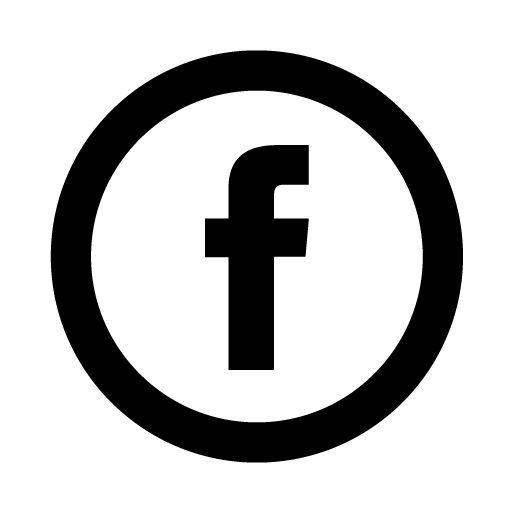
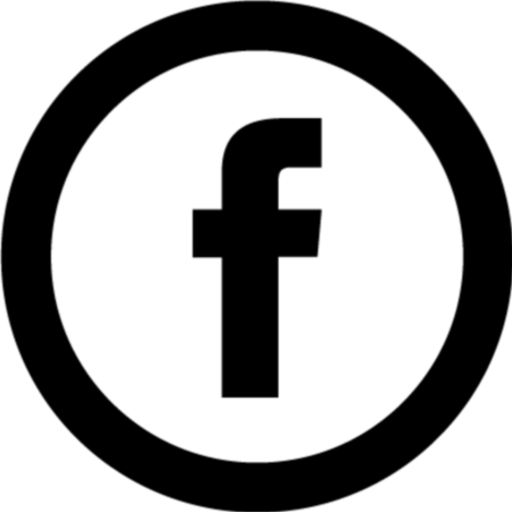
-- adjustments to css and addition of education section

diff --git a/index.html b/index.html
@@ -96,10 +96,73 @@
     <div class="divider"></div>
 
     <div id="EDU" class="container my-5">
+      <h1 class="border-bottom display-1"> EDUCATION </h1>
       <div class="row p-4 pb-0 pe-lg-0 pt-lg-5 align-items-center rounded-3 border shadow-lg">
         <div class="col-lg-7 p-3 p-lg-5 pt-lg-3">
-          <h1 class="display-4 fw-bold lh-1">Border hero with cropped image and shadows</h1>
-          <p class="lead">Quickly design and customize responsive mobile-first sites with Bootstrap, the world’s most popular front-end open source toolkit, featuring Sass variables and mixins, responsive grid system, extensive prebuilt components, and powerful JavaScript plugins.</p>
+          <div class="accordion" id="accordionPanelsStayOpenExample">
+            <div class="accordion-item">
+              <h2 class="accordion-header" id="panelsStayOpen-headingOne">
+                <button class="accordion-button" type="button" data-bs-toggle="collapse" data-bs-target="#panelsStayOpen-collapseOne" aria-expanded="true" aria-controls="panelsStayOpen-collapseOne">
+                  Bachelors of Science
+                </button>
+              </h2>
+              <div id="panelsStayOpen-collapseOne" class="accordion-collapse collapse show" aria-labelledby="panelsStayOpen-headingOne">
+                <div class="accordion-body">
+                  <strong>Graduating from University of Toronto in 2021 with a Bachelors of Science.</strong>
+                  <table class="table table-hover">
+                    <thead>
+                      <tr>
+                        <th scope="col"> Specialization  </th>
+                        <th scope="col"> Specific Courses </th>
+                        <th scope="col"> More Detailed Description </th>
+                      </tr>
+                    </thead>
+                    <tbody>
+                      <tr>
+                        <th scope="row"> Computer Science </th>
+                        <td> - Object Oriented Programming</td>
+                        <td> - Specific education with Java with regards to OOP principles and dynamics.</td>
+                      </tr>
+                      <tr>
+                        <th scope="row"> Mathematics </th>
+                        <td> - Linear Algebra <br> - Proofs <br> - Multivariable Calculus </td>
+                        <td> - Understanding matrices and graphing </td>
+                      </tr>
+                      <tr>
+                        <th scope="row"> Psychology </th>
+                        <td> - Psychology and the Law <br> - Psychological Disorders <br> The Biopsychology of Sex </td>
+                        <td> - Understanding the impact of Law on Psychology and research </td>
+                      </tr>
+                    </tbody>
+                  </table>
+                </div>
+              </div>
+            </div>
+            <div class="accordion-item">
+              <h2 class="accordion-header" id="panelsStayOpen-headingTwo">
+                <button class="accordion-button collapsed" type="button" data-bs-toggle="collapse" data-bs-target="#panelsStayOpen-collapseTwo" aria-expanded="false" aria-controls="panelsStayOpen-collapseTwo">
+                  Water Treatment Licensing
+                </button>
+              </h2>
+              <div id="panelsStayOpen-collapseTwo" class="accordion-collapse collapse" aria-labelledby="panelsStayOpen-headingTwo">
+                <div class="accordion-body">
+                  <strong>This is the second item's accordion body.</strong> It is hidden by default, until the collapse plugin adds the appropriate classes that we use to style each element. These classes control the overall appearance, as well as the showing and hiding via CSS transitions. You can modify any of this with custom CSS or overriding our default variables. It's also worth noting that just about any HTML can go within the <code>.accordion-body</code>, though the transition does limit overflow.
+                </div>
+              </div>
+            </div>
+            <div class="accordion-item">
+              <h2 class="accordion-header" id="panelsStayOpen-headingThree">
+                <button class="accordion-button collapsed" type="button" data-bs-toggle="collapse" data-bs-target="#panelsStayOpen-collapseThree" aria-expanded="false" aria-controls="panelsStayOpen-collapseThree">
+                  Additional Certifications and Training
+                </button>
+              </h2>
+              <div id="panelsStayOpen-collapseThree" class="accordion-collapse collapse" aria-labelledby="panelsStayOpen-headingThree">
+                <div class="accordion-body">
+                  <strong>This is the third item's accordion body.</strong> It is hidden by default, until the collapse plugin adds the appropriate classes that we use to style each element. These classes control the overall appearance, as well as the showing and hiding via CSS transitions. You can modify any of this with custom CSS or overriding our default variables. It's also worth noting that just about any HTML can go within the <code>.accordion-body</code>, though the transition does limit overflow.
+                </div>
+              </div>
+            </div>
+          </div>
         </div>
         <div class="col-lg-4 offset-lg-1 p-0 overflow-hidden shadow-lg">
             <img class="rounded-lg-3" src="bootstrap-docs.png" alt="" width="720">
@@ -145,21 +208,21 @@
     </div>
 
     <div class="container">
-      <footer class="py-4 my-4 border-top">
-        <ul class="list-group list-group-horizontal list-group-flush">
-          <li class="list-group-item"><a class="socials_links" href="https://github.com/greatcoltini">
-            <img class="rounded mx-auto d-block" src="githubicohov.png" alt="GitHub" width=50 height=50>
-          </a></li>
-          <li class="list-group-item"><a class="socials_links" href="https://instagram.com/greatcoltini">
-            <img class="rounded mx-auto d-block" src="greyinstaico.png" alt="Instagram" width=50 height=50>
-          </a></li>
-          <li class="list-group-item"><a class="socials_links" href="https://www.linkedin.com/in/colton-donkersgoed/">
-            <img class="rounded mx-auto d-block" src="greylinkedinico.png" alt="Indeed" width=50 height=50>
-          </a></li>
-          <li class="list-group-item"><a class="socials_links" href="https://www.facebook.com/colton.donkersgoed">
-            <img class="rounded mx-auto d-block" src="greyfbico.png" alt="Facebook" width=50 height=50>
-          </a></li>
-        </ul>
+      <footer class="py-3 my-3 border-top">
+        <div class="socials">
+            <a class="socials_links" href="https://github.com/greatcoltini" target="_blank">
+                <img class="image socialimg" src="githubicohov.png" alt="GitHub">
+            </a>
+            <a class="socials_links" href="https://instagram.com/greatcoltini" target="_blank">
+                <img class="image socialimg" src="greyinstaico.png" alt="Instagram">
+            </a>
+            <a class="socials_links" href="https://www.linkedin.com/in/colton-donkersgoed/" target="_blank">
+                <img class="image socialimg" src="greylinkedinico.png" alt="Indeed">
+            </a>
+            <a class="socials_links" href="https://www.facebook.com/colton.donkersgoed" target="_blank">
+                <img class="image socialimg" src="greyfbico.png" alt="Facebook">
+            </a>
+        </div>
       </footer>
       <p class="text-center text-muted">© 2022 COLTON DONKERSGOED</p>
     </div>

diff --git a/style.css b/style.css
@@ -18,10 +18,28 @@ h1 {
     box-shadow: inset 0 .5em 1.5em rgba(0, 0, 0, .1), inset 0 .125em .5em rgba(0, 0, 0, .15);
 }
 
+.socials {
+    display: block;
+    position: relative;
+    margin-left: 10vw;
+    float: left;
+}
+
+.socials_links {
+    position: relative;
+    padding-left: 0%;
+    text-decoration: none;
+}
+
 .socials_links .image {
     transition: opacity .5s;
 }
 
 .socials_links:hover .image {
     opacity: 0.3;
+}
+
+.socialimg {
+    width: 20%;
+    height: 20%;
 }
